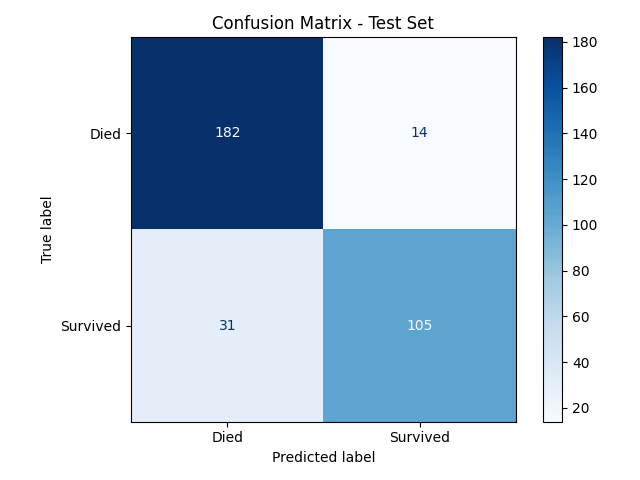
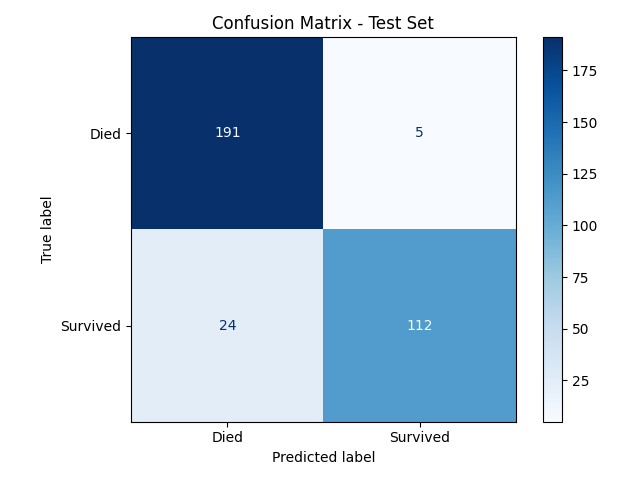
max_depth -> 7

diff --git a/Algorithms/random_forest.py b/Algorithms/random_forest.py
@@ -49,7 +49,7 @@ def forest_training():
 
     model = RandomForestClassifier(
         n_estimators=200,
-        max_depth=10,
+        max_depth=7,
         min_samples_split=5,
         max_features='sqrt',
         random_state=42
